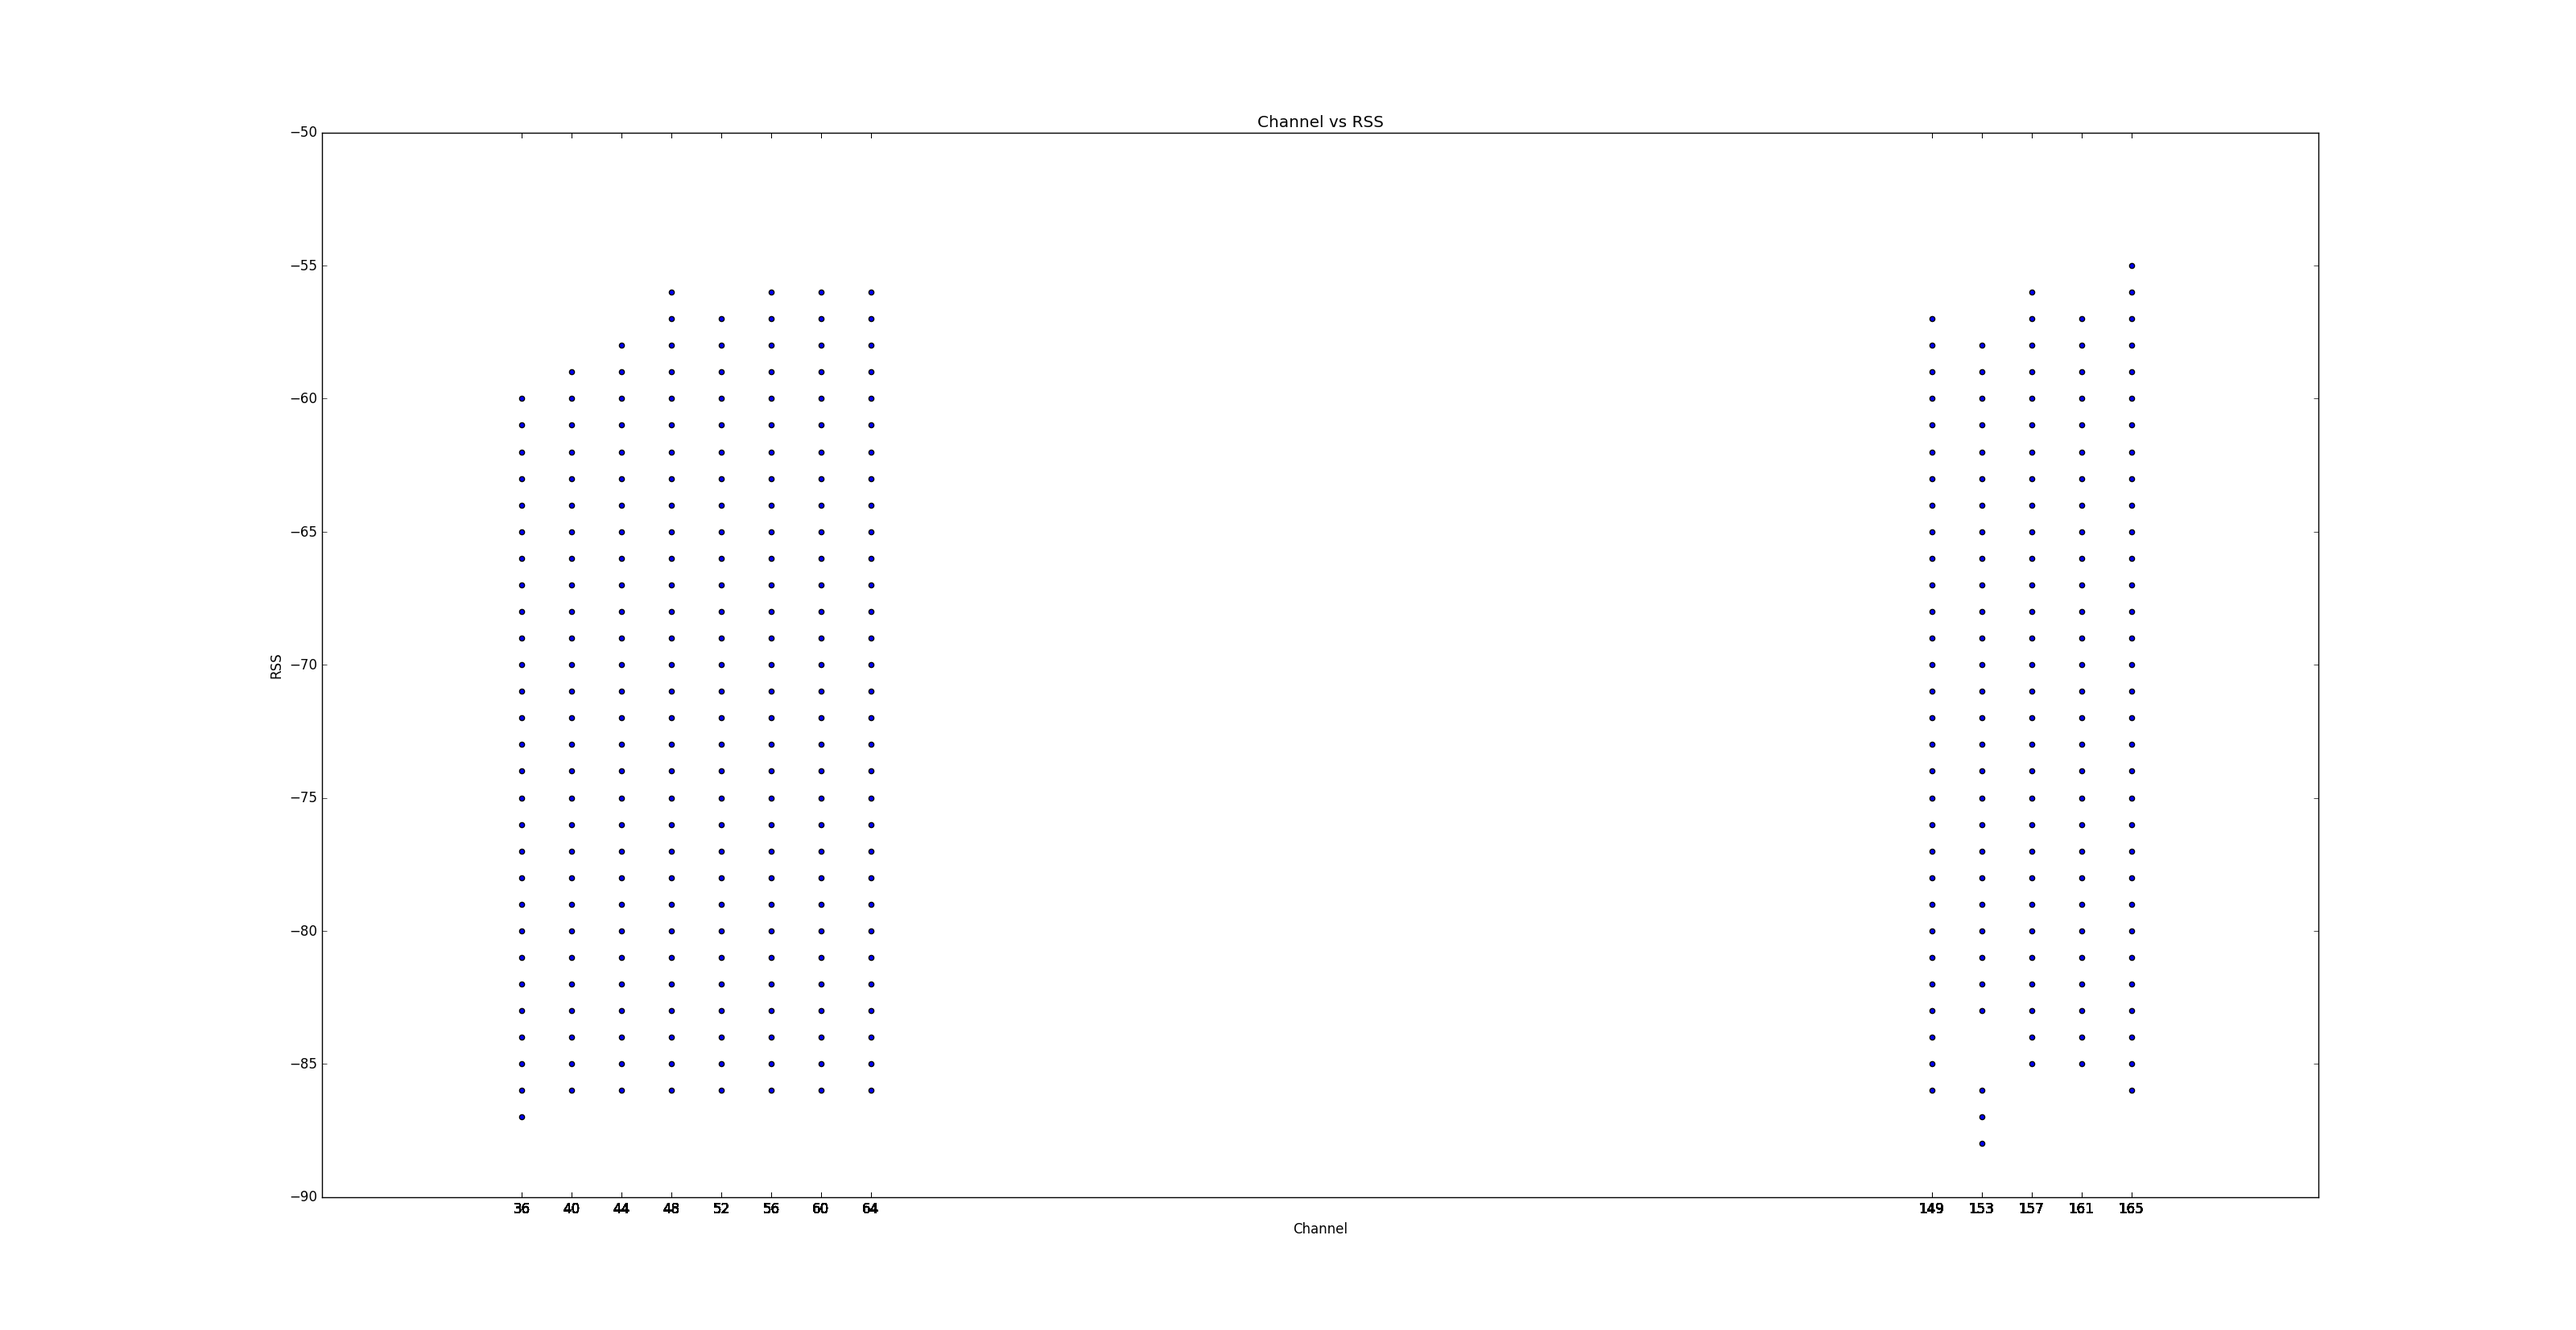
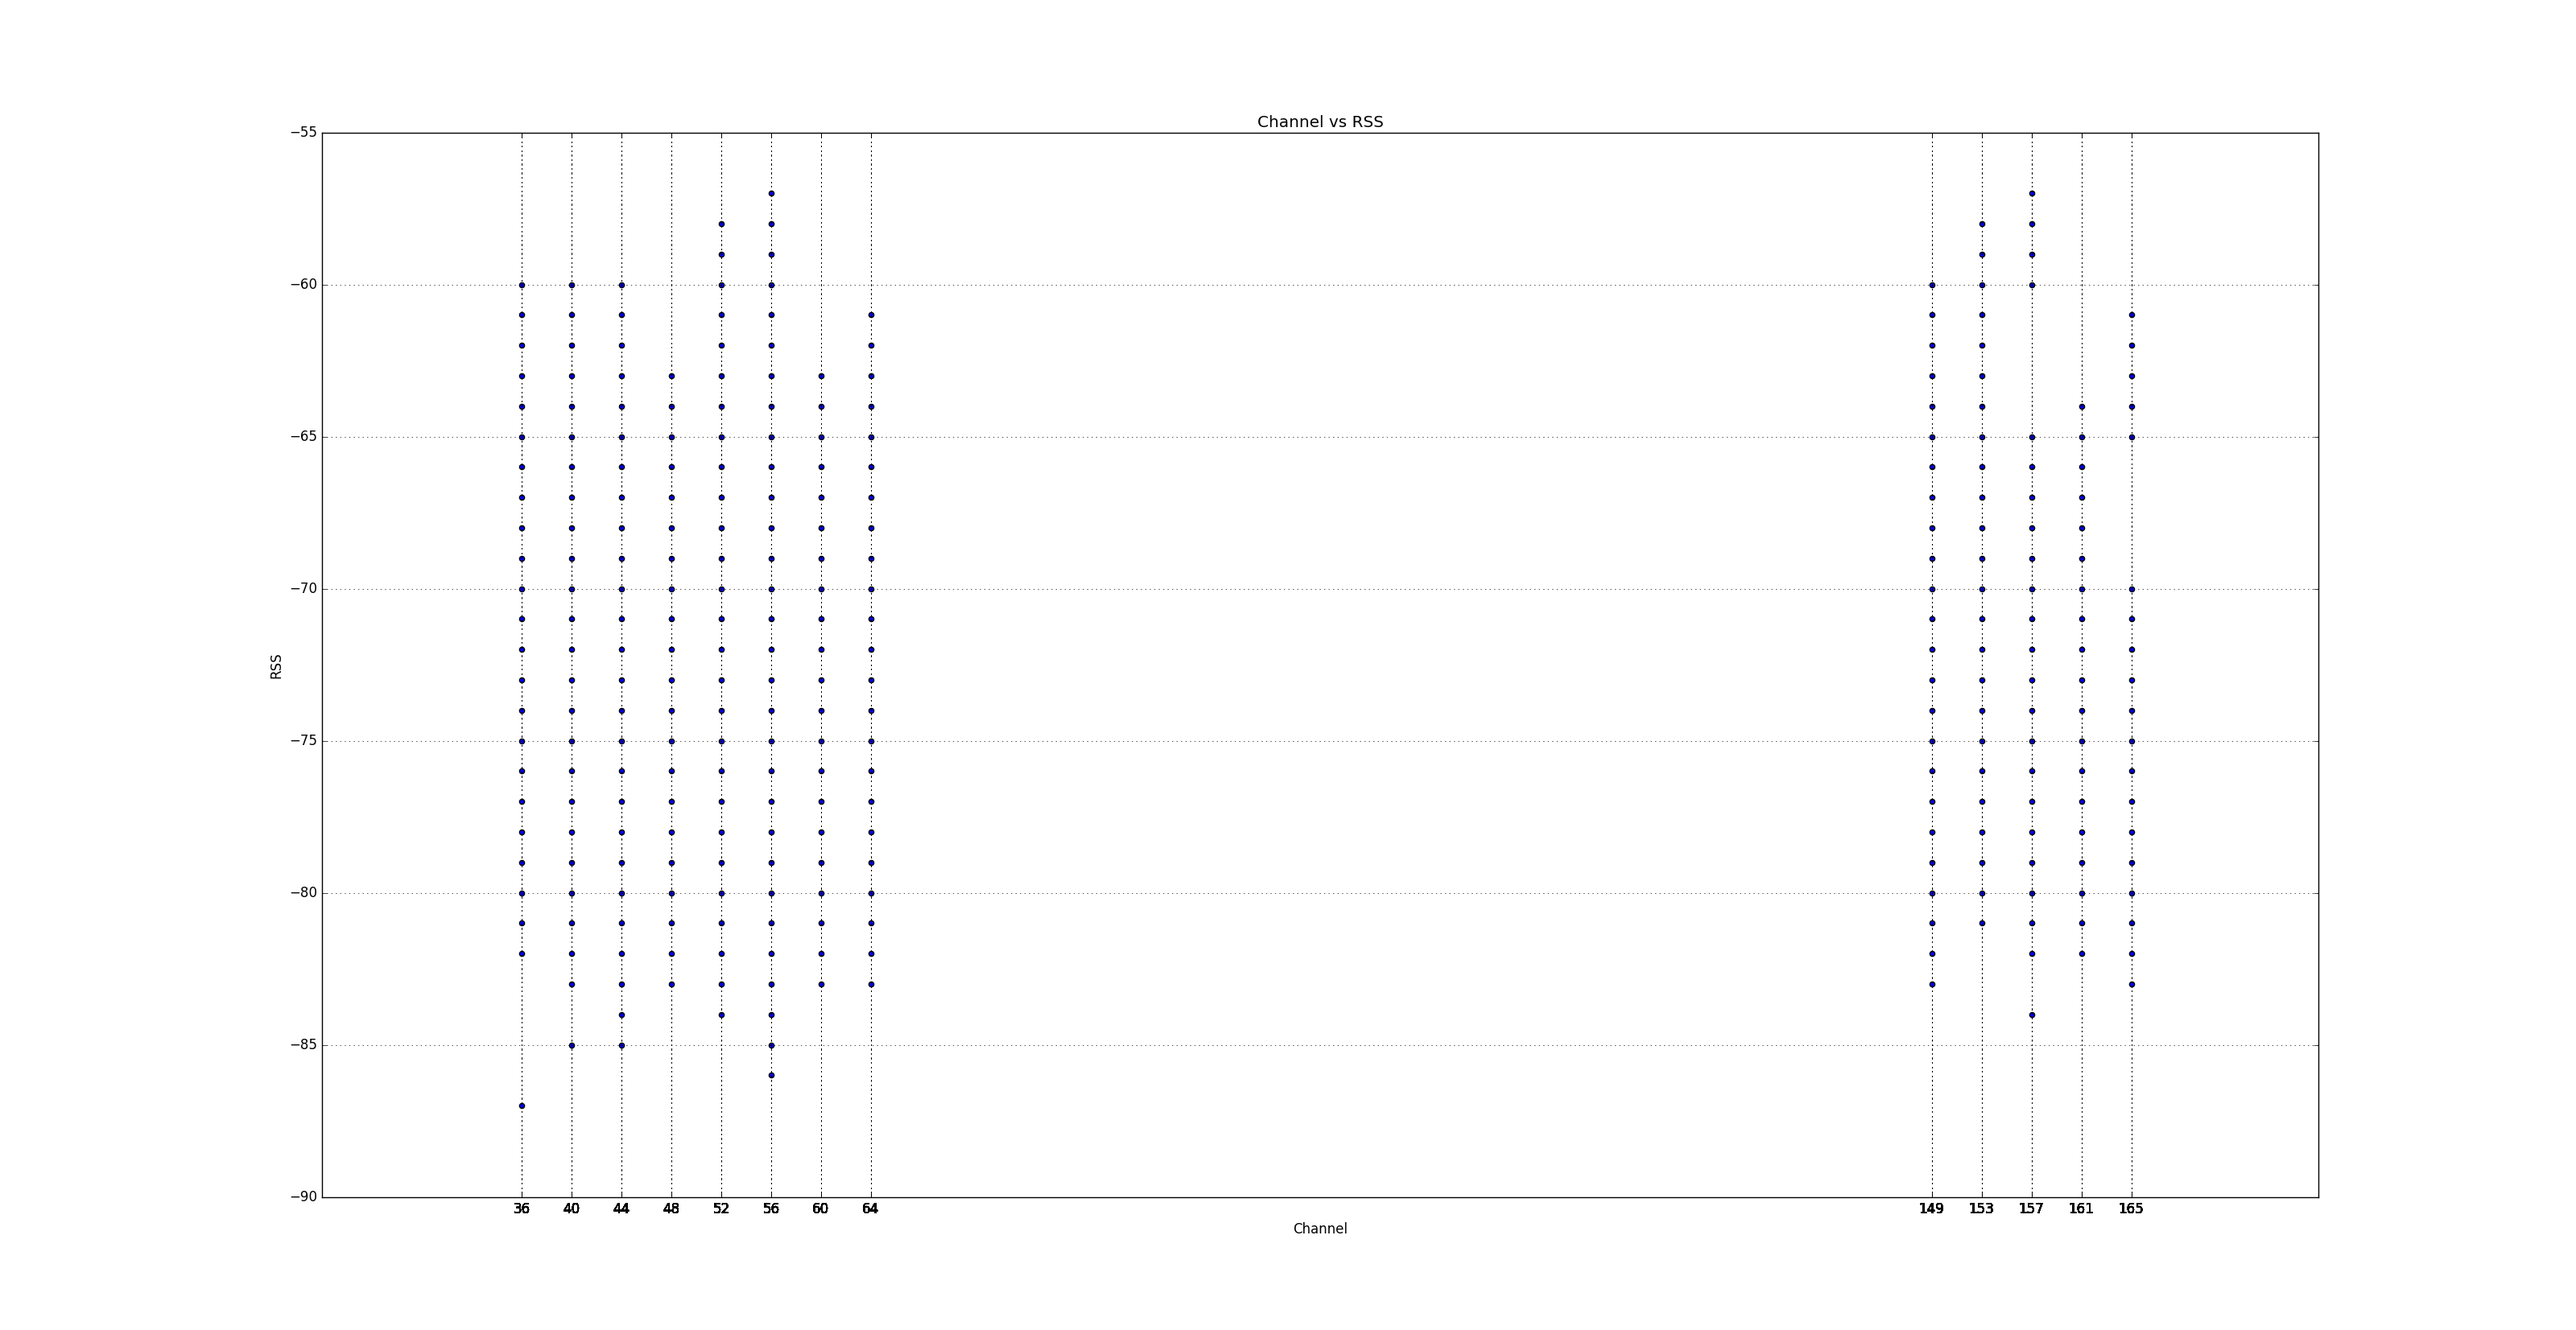
Task c: filtering out buggy timestamps, added grid to plots

diff --git a/group06_hw03/task_c/task1c.py b/group06_hw03/task_c/task1c.py
@@ -30,6 +30,7 @@ def plot_delivery_rates():
     plt.ylabel("Delivery ratio")
     plt.scatter(links, rates)
     plt.xticks(links)
+    plt.grid(True)
 
     plt.show()
 
@@ -40,28 +41,10 @@ def plot_delivery_rates():
     plt.ylabel("Delivery ratio")
     plt.scatter(channels, rates)
     plt.xticks(channels)
+    plt.grid(True)
     plt.show()
     plt.close()
 
-
-
-
-def get_ratios_from_file(file):
-    link = 0
-    channel = 0
-    ratios = []
-
-    with open(file, newline="\n") as csvfile:
-        reader = csv.reader(csvfile, delimiter=',')
-        for row in reader:
-            try:
-                data.rss.append(int(row[4]))
-            except Exception:
-                pass
-
-    csvfile.close()
-    # print(data.rss)
-    return link, channel, ratios
 
 def plot_rss():
     file_paths = glob.glob("../802_11a/link-*-channel-*.csv")
@@ -91,7 +74,7 @@ def plot_rss():
     plt.ylabel("RSS")
     plt.scatter(links_plotx, links_ploty)
     plt.xticks(links_plotx)
-
+    plt.grid(True)
     plt.show()
 
     plt.close()
@@ -107,6 +90,7 @@ def plot_rss():
     plt.ylabel("RSS")
     plt.scatter(plotx, ploty)
     plt.xticks(plotx)
+    plt.grid(True)
     plt.show()
     plt.close()
 
@@ -122,10 +106,11 @@ def get_rss_from_file(file):
     with open(file, newline="\n") as csvfile:
         reader = csv.reader(csvfile, delimiter=',')
         for row in reader:
-            try:
-                rss.append(int(row[4]))
-            except Exception:
-                pass
+            if int(row[0]) > 1230768000:
+                try:
+                    rss.append(int(row[4]))
+                except Exception:
+                    pass
 
     csvfile.close()
     return link, channel, rss
